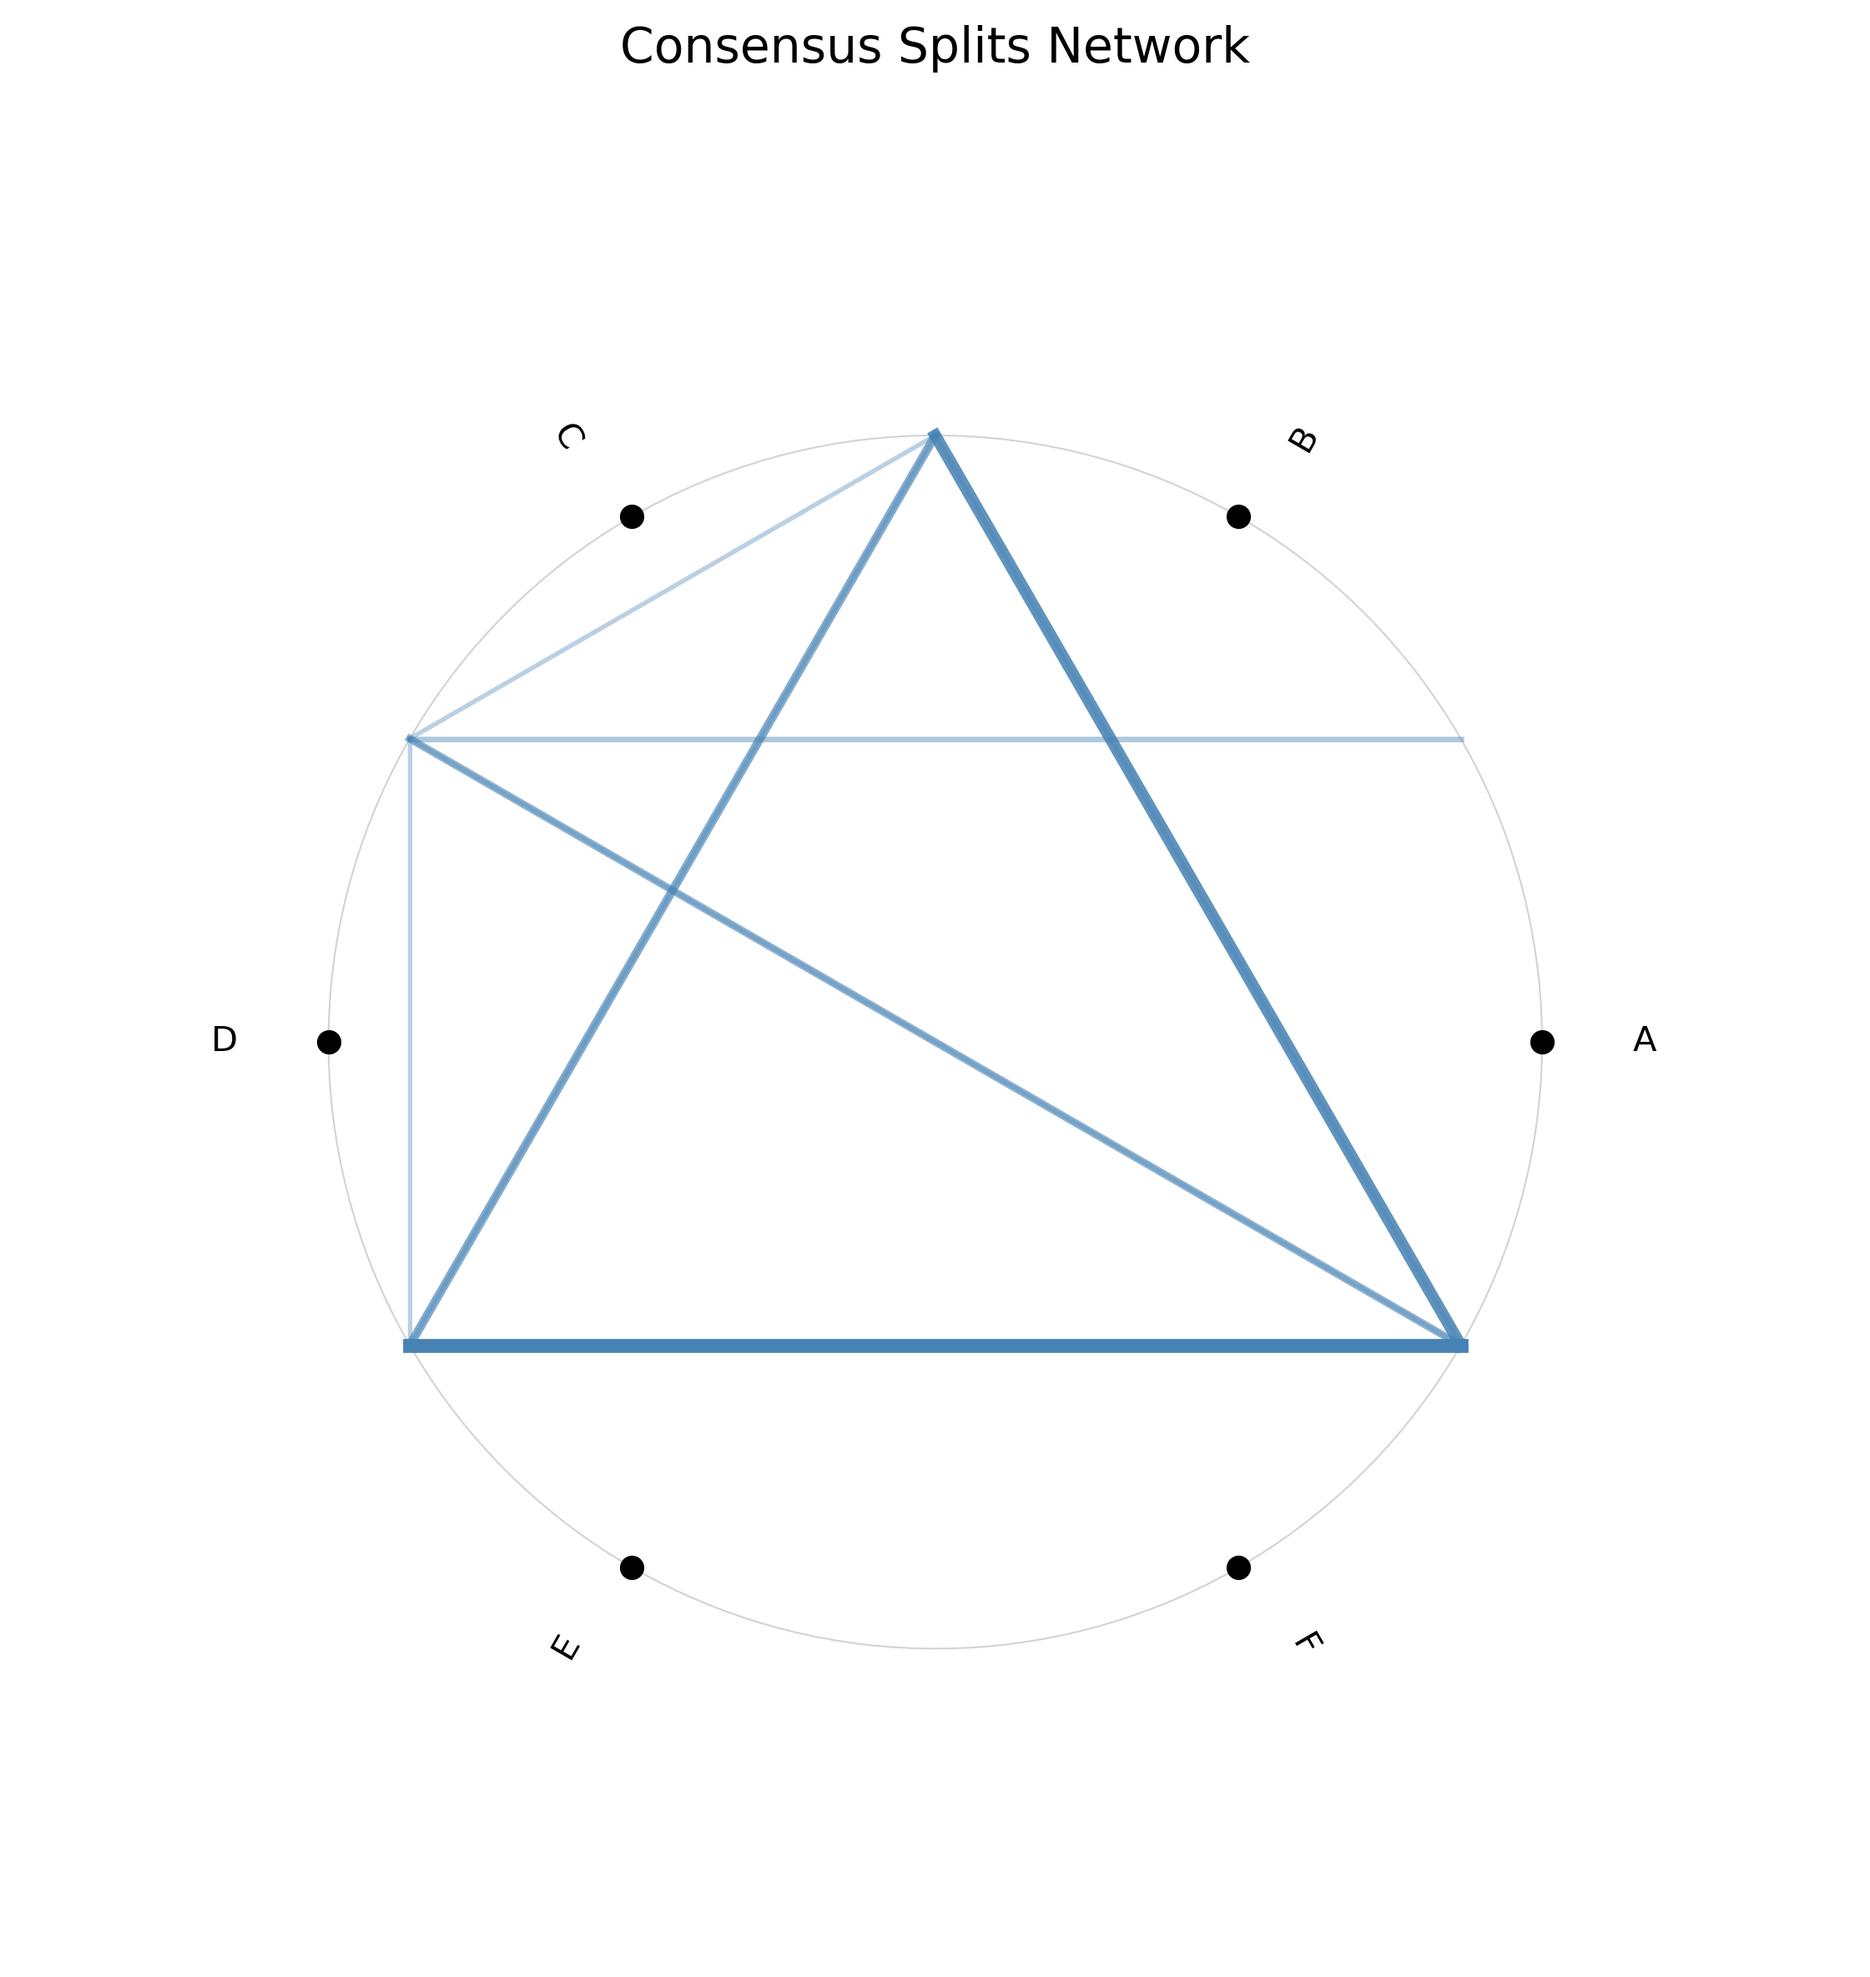
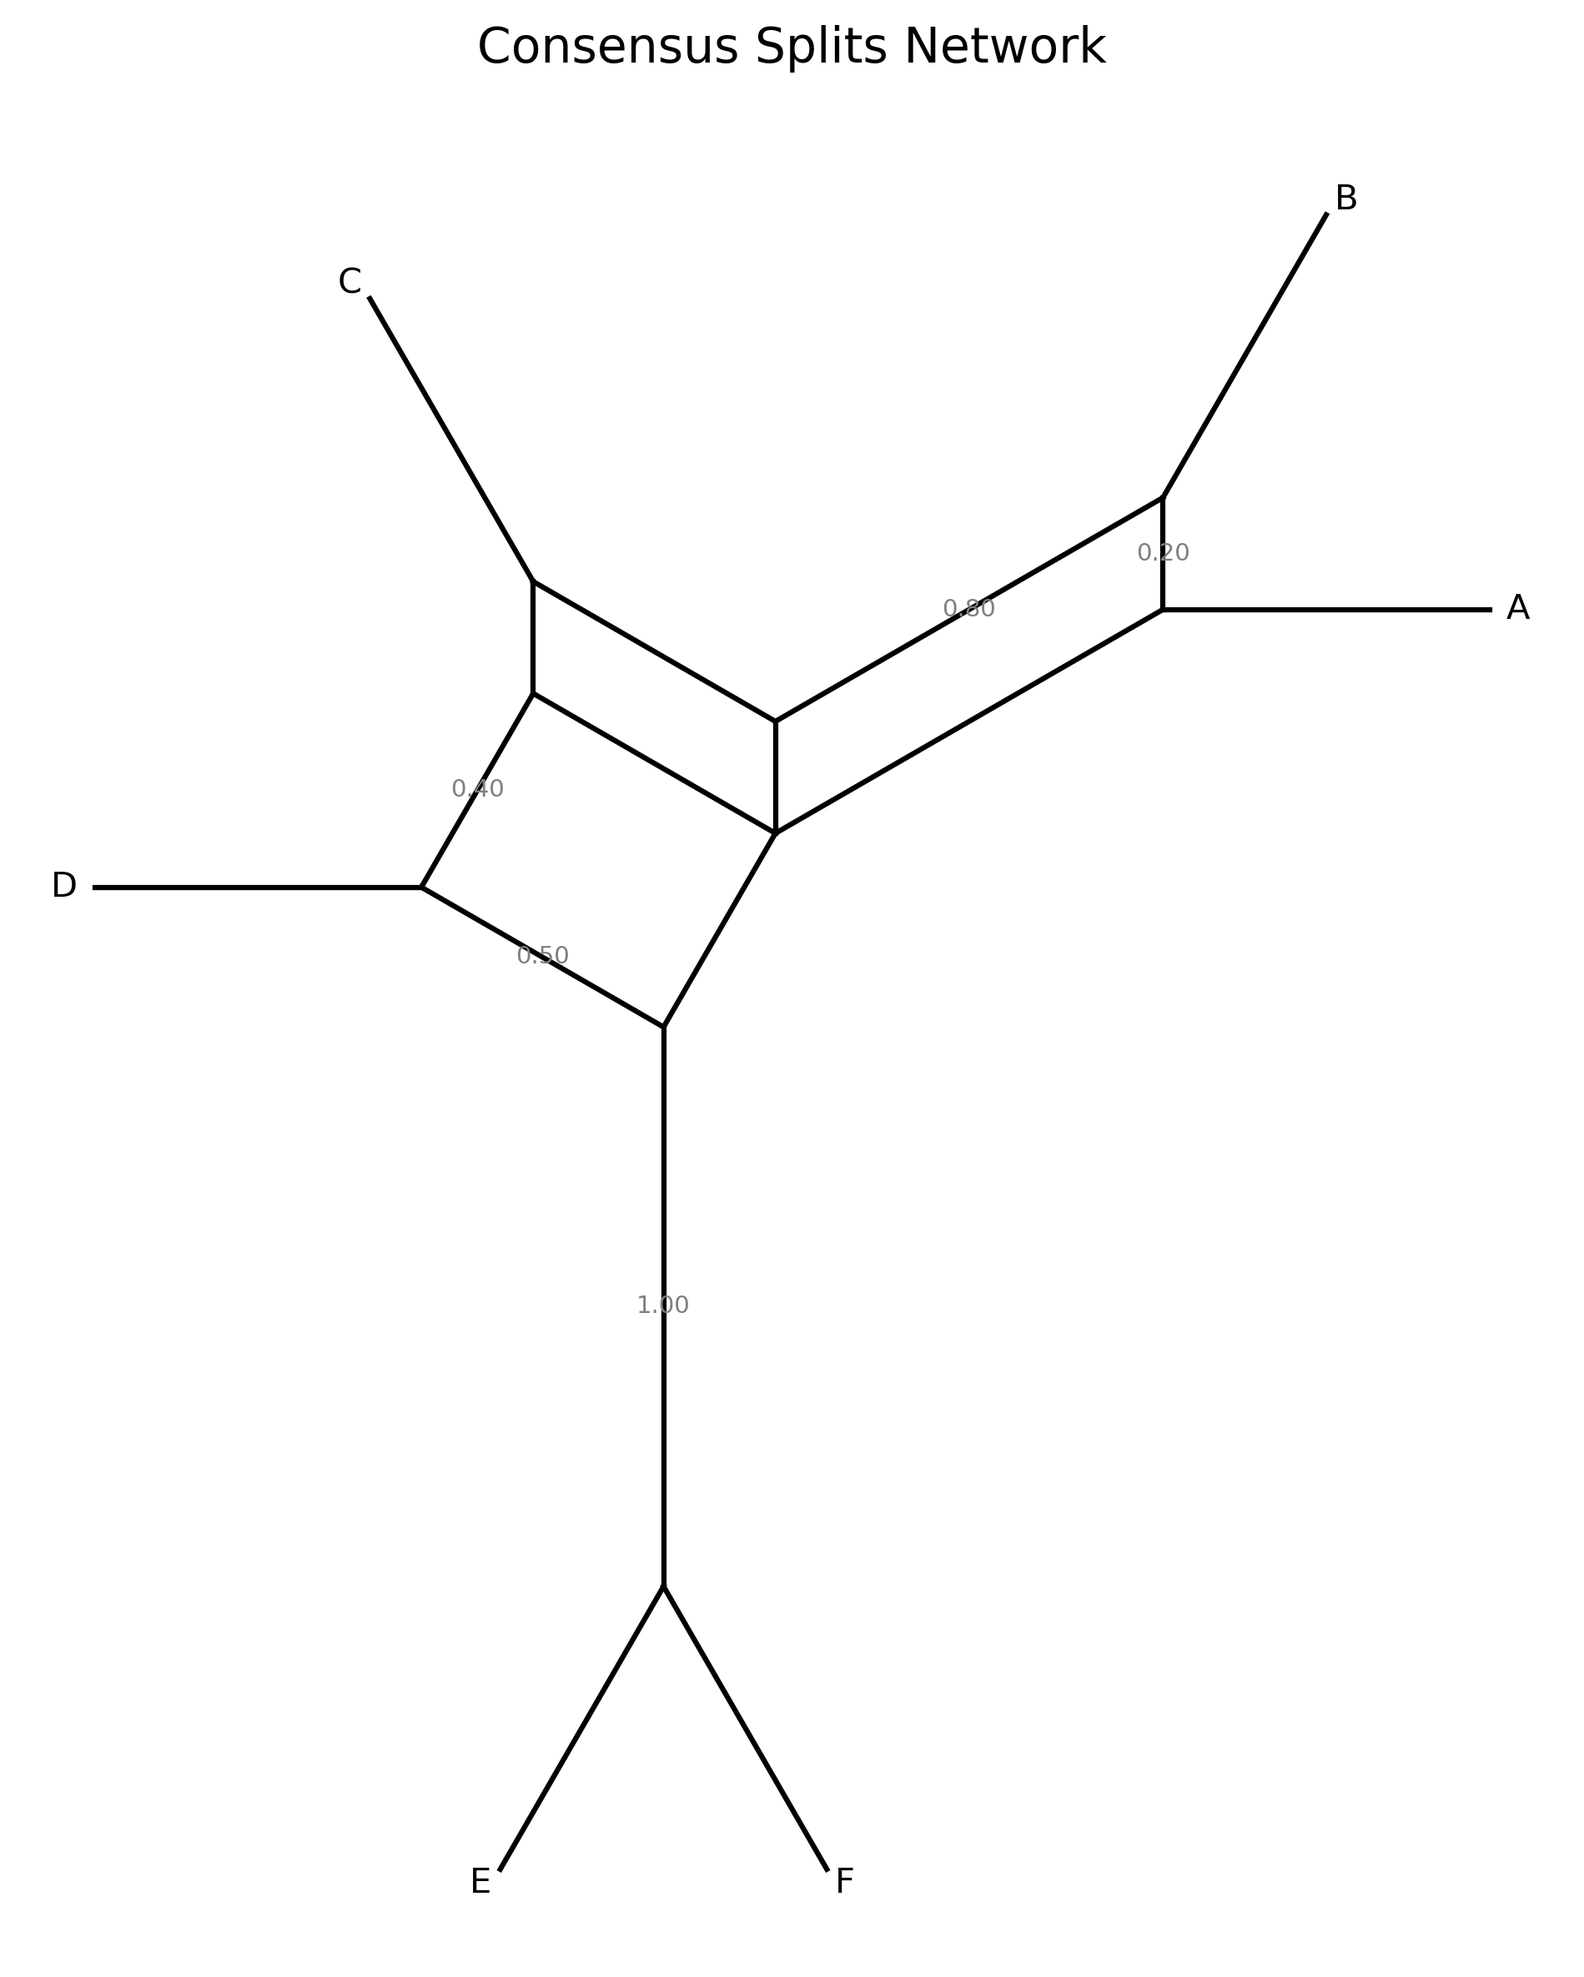
fix: replace chord diagram with proper planar splits graph in consensus_network

diff --git a/phykit/services/tree/consensus_network.py b/phykit/services/tree/consensus_network.py
@@ -183,81 +183,222 @@ class ConsensusNetwork(Tree):
         return sorted(all_taxa)
 
     # ------------------------------------------------------------------
-    # Visualization
+    # Visualization: Planar Splits Graph
     # ------------------------------------------------------------------
 
+    @staticmethod
+    def _is_circular_split(split, ordering):
+        """Check if a split has exactly 2 boundary gaps in the circular ordering."""
+        n = len(ordering)
+        gaps = 0
+        for i in range(n):
+            curr = ordering[i]
+            nxt = ordering[(i + 1) % n]
+            if (curr in split) != (nxt in split):
+                gaps += 1
+        return gaps == 2
+
+    @staticmethod
+    def _compute_split_directions(ordering, circular_splits):
+        """Compute 2D direction vectors for each circular split."""
+        n = len(ordering)
+        angles = {taxon: 2 * math.pi * i / n for i, taxon in enumerate(ordering)}
+        directions = {}
+        for split, count, freq in circular_splits:
+            gap_positions = []
+            for i in range(n):
+                curr = ordering[i]
+                nxt = ordering[(i + 1) % n]
+                if (curr in split) != (nxt in split):
+                    gap_positions.append(i)
+            if len(gap_positions) != 2:
+                continue
+            # Gap midpoint angles on the unit circle
+            g1 = math.pi * (2 * gap_positions[0] + 1) / n
+            g2 = math.pi * (2 * gap_positions[1] + 1) / n
+            # Chord between gap midpoints
+            cx = math.cos(g2) - math.cos(g1)
+            cy = math.sin(g2) - math.sin(g1)
+            # Perpendicular direction (rotated 90 degrees)
+            dx = -cy
+            dy = cx
+            length = math.sqrt(dx * dx + dy * dy)
+            if length > 1e-10:
+                dx /= length
+                dy /= length
+            else:
+                dx, dy = 1.0, 0.0
+            # Orient toward the canonical (positive / smaller) side
+            cx_split = sum(math.cos(angles[t]) for t in split) / len(split)
+            cy_split = sum(math.sin(angles[t]) for t in split) / len(split)
+            if dx * cx_split + dy * cy_split < 0:
+                dx = -dx
+                dy = -dy
+            directions[split] = (dx, dy)
+        return directions
+
+    @staticmethod
+    def _build_splits_graph(circular_splits, all_taxa):
+        """Build the Buneman splits graph: valid sign vectors and edges.
+
+        Returns (taxon_signs, valid_nodes, edges, splits_list, weights).
+        """
+        splits_list = [s[0] for s in circular_splits]
+        weights = [s[2] for s in circular_splits]
+        n_splits = len(splits_list)
+        if n_splits == 0:
+            return {}, set(), [], [], []
+        # Each taxon's sign vector: +1 if in canonical side, -1 otherwise
+        taxon_signs = {}
+        for taxon in all_taxa:
+            signs = tuple(1 if taxon in sp else -1 for sp in splits_list)
+            taxon_signs[taxon] = signs
+        # Pairwise forbidden sign combinations
+        forbidden = {}
+        for i in range(n_splits):
+            for j in range(i + 1, n_splits):
+                si_pos = splits_list[i]
+                si_neg = all_taxa - si_pos
+                sj_pos = splits_list[j]
+                sj_neg = all_taxa - sj_pos
+                fb = set()
+                if not (si_pos & sj_pos):
+                    fb.add((1, 1))
+                if not (si_pos & sj_neg):
+                    fb.add((1, -1))
+                if not (si_neg & sj_pos):
+                    fb.add((-1, 1))
+                if not (si_neg & sj_neg):
+                    fb.add((-1, -1))
+                if fb:
+                    forbidden[(i, j)] = fb
+        # Enumerate valid sign vectors
+        valid_nodes = set()
+        for combo in range(2 ** n_splits):
+            signs = tuple(1 if (combo >> j) & 1 else -1 for j in range(n_splits))
+            valid = True
+            for (i, j), fb_pairs in forbidden.items():
+                if (signs[i], signs[j]) in fb_pairs:
+                    valid = False
+                    break
+            if valid:
+                valid_nodes.add(signs)
+        # Ensure taxon sign vectors are included
+        for signs in taxon_signs.values():
+            valid_nodes.add(signs)
+        # Edges: connect nodes differing in exactly one split
+        edges = []
+        valid_list = list(valid_nodes)
+        for i in range(len(valid_list)):
+            for j in range(i + 1, len(valid_list)):
+                s1 = valid_list[i]
+                s2 = valid_list[j]
+                diff = [k for k in range(n_splits) if s1[k] != s2[k]]
+                if len(diff) == 1:
+                    edges.append((s1, s2, diff[0]))
+        return taxon_signs, valid_nodes, edges, splits_list, weights
+
     def _draw_network(self, ordering: List[str], filtered_splits, all_taxa: frozenset, output_path: str):
+        """Draw a planar splits graph using matplotlib."""
         import matplotlib
         matplotlib.use("Agg")
         import matplotlib.pyplot as plt
-        import numpy as np
 
         n = len(ordering)
         angles = {taxon: 2 * math.pi * i / n for i, taxon in enumerate(ordering)}
 
+        # Filter to circular splits only
+        circular_splits = [
+            (split, count, freq)
+            for split, count, freq in filtered_splits
+            if self._is_circular_split(split, ordering)
+        ]
+
+        # Compute direction vectors
+        directions = self._compute_split_directions(ordering, circular_splits)
+
+        # Keep only splits that have computed directions
+        circular_splits = [
+            (split, count, freq)
+            for split, count, freq in circular_splits
+            if split in directions
+        ]
+
+        # Build splits graph
+        taxon_signs, valid_nodes, edges, splits_list, weights = self._build_splits_graph(
+            circular_splits, all_taxa
+        )
+
         fig, ax = plt.subplots(1, 1, figsize=(8, 8))
         ax.set_aspect("equal")
 
-        # Draw taxa labels on circle
-        radius = 1.0
-        label_radius = 1.15
-        for taxon in ordering:
-            angle = angles[taxon]
-            x = radius * math.cos(angle)
-            y = radius * math.sin(angle)
-            ax.plot(x, y, "o", color="black", markersize=6, zorder=3)
-
-            lx = label_radius * math.cos(angle)
-            ly = label_radius * math.sin(angle)
-            # Rotate label to face outward
-            deg = math.degrees(angle)
-            ha = "left" if -90 < deg < 90 or deg > 270 else "right"
-            rotation = deg if -90 < deg < 90 else deg - 180
-            if deg > 270:
-                rotation = deg - 360
-            ax.text(lx, ly, taxon, ha=ha, va="center", fontsize=10, rotation=rotation)
-
-        # Draw circle outline
-        theta = np.linspace(0, 2 * np.pi, 200)
-        ax.plot(radius * np.cos(theta), radius * np.sin(theta), "-", color="lightgray", linewidth=0.5, zorder=1)
-
-        # Draw split chords
-        if filtered_splits:
-            max_freq = max(fs[2] for fs in filtered_splits)
+        if not splits_list:
+            # No splits: place taxa evenly on a circle
+            for taxon in ordering:
+                angle = angles[taxon]
+                x = math.cos(angle)
+                y = math.sin(angle)
+                deg = math.degrees(angle)
+                ha = "left" if -90 < deg < 90 or deg > 270 else "right"
+                ax.text(x, y, taxon, ha=ha, va="center", fontsize=10)
         else:
-            max_freq = 1.0
+            # Compute node positions: pos = sum(sign_i * weight_i * dir_i) / 2
+            node_positions = {}
+            for node in valid_nodes:
+                x, y = 0.0, 0.0
+                for i, sp in enumerate(splits_list):
+                    dx, dy = directions[sp]
+                    x += node[i] * weights[i] * dx / 2
+                    y += node[i] * weights[i] * dy / 2
+                node_positions[node] = (x, y)
 
-        position_index = {taxon: i for i, taxon in enumerate(ordering)}
+            # Pendant edge length proportional to graph extent
+            all_x = [p[0] for p in node_positions.values()]
+            all_y = [p[1] for p in node_positions.values()]
+            extent = max(
+                max(all_x) - min(all_x) if all_x else 0,
+                max(all_y) - min(all_y) if all_y else 0,
+            )
+            pendant_len = max(0.15, extent * 0.3)
 
-        for split, count, freq in filtered_splits:
-            complement = all_taxa - split
-            # Find boundary points: positions where a split-member and
-            # complement-member are adjacent in the circular ordering.
-            boundary_midpoints = []
-            for i in range(n):
-                curr = ordering[i]
-                nxt = ordering[(i + 1) % n]
-                if (curr in split and nxt in complement) or (curr in complement and nxt in split):
-                    mid_angle = (angles[curr] + angles[nxt]) / 2
-                    # Handle wrap-around
-                    if abs(angles[curr] - angles[nxt]) > math.pi:
-                        mid_angle += math.pi
-                    boundary_midpoints.append(mid_angle)
+            # Draw internal edges
+            for s1, s2, split_idx in edges:
+                x1, y1 = node_positions[s1]
+                x2, y2 = node_positions[s2]
+                ax.plot([x1, x2], [y1, y2], "-", color="black", linewidth=1.5, zorder=2)
 
-            # Draw chords between boundary midpoints
-            alpha = 0.3 + 0.7 * (freq / max_freq)
-            linewidth = 1.0 + 3.0 * (freq / max_freq)
-            for i in range(len(boundary_midpoints)):
-                for j in range(i + 1, len(boundary_midpoints)):
-                    a1, a2 = boundary_midpoints[i], boundary_midpoints[j]
-                    x1 = radius * math.cos(a1)
-                    y1 = radius * math.sin(a1)
-                    x2 = radius * math.cos(a2)
-                    y2 = radius * math.sin(a2)
-                    ax.plot([x1, x2], [y1, y2], "-", color="steelblue", alpha=alpha, linewidth=linewidth, zorder=2)
+            # Draw pendant edges and taxon labels
+            for taxon in ordering:
+                angle = angles[taxon]
+                if taxon in taxon_signs and taxon_signs[taxon] in node_positions:
+                    nx, ny = node_positions[taxon_signs[taxon]]
+                else:
+                    nx, ny = 0.0, 0.0
+                tx = nx + pendant_len * math.cos(angle)
+                ty = ny + pendant_len * math.sin(angle)
+                ax.plot([nx, tx], [ny, ty], "-", color="black", linewidth=1.5, zorder=2)
+                lx = tx + 0.03 * math.cos(angle)
+                ly = ty + 0.03 * math.sin(angle)
+                deg = math.degrees(angle)
+                ha = "left" if -90 < deg < 90 or deg > 270 else "right"
+                ax.text(lx, ly, taxon, ha=ha, va="center", fontsize=10, zorder=4)
 
-        ax.set_xlim(-1.5, 1.5)
-        ax.set_ylim(-1.5, 1.5)
+            # Frequency labels on internal edges (one per split)
+            labeled_splits = set()
+            for s1, s2, split_idx in edges:
+                if split_idx not in labeled_splits:
+                    x1, y1 = node_positions[s1]
+                    x2, y2 = node_positions[s2]
+                    mx = (x1 + x2) / 2
+                    my = (y1 + y2) / 2
+                    freq = weights[split_idx]
+                    ax.text(
+                        mx, my, f"{freq:.2f}",
+                        fontsize=7, ha="center", va="center",
+                        color="gray", zorder=3,
+                    )
+                    labeled_splits.add(split_idx)
+
         ax.axis("off")
         ax.set_title("Consensus Splits Network", fontsize=14, pad=20)
 

diff --git a/phykit/version.py b/phykit/version.py
@@ -1,1 +1,1 @@
-__version__ = "2.1.22"
+__version__ = "2.1.23"
